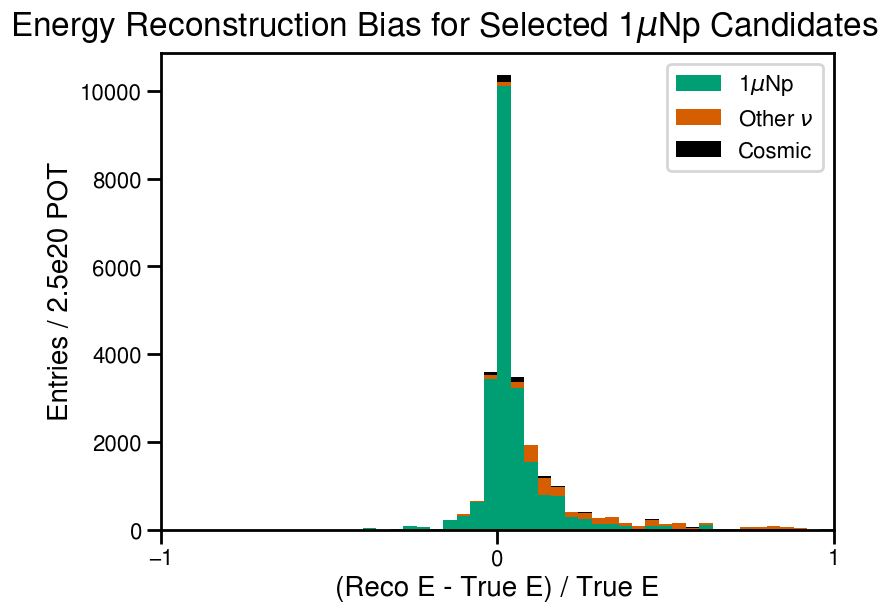
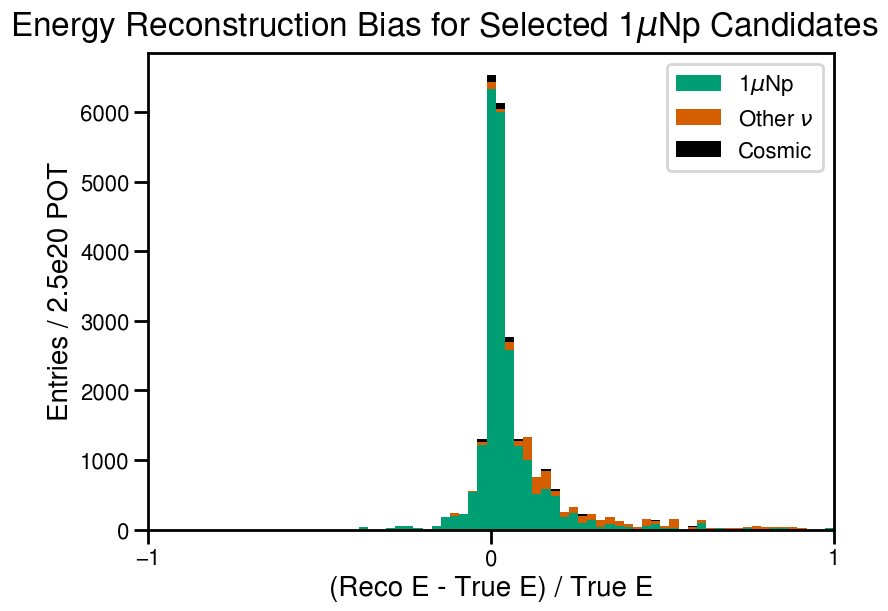
Increased number of bins in bias plots

diff --git a/analysis.C b/analysis.C
@@ -29,12 +29,12 @@ void analysis()
     spectra.add_spectrum1d("sCountPrimaries", Binning::Simple(20, 0, 20), kCountPrimaries);
     spectra.add_spectrum1d("sCountParticlesTruth", Binning::Simple(20, 0, 20), kCountParticlesTruth);
     spectra.add_spectrum1d("sCountPrimariesTruth", Binning::Simple(20, 0, 20), kCountPrimariesTruth);
-    spectra.add_spectrum1d("sEnergy_1mu1p_signal_bias", Binning::Simple(50,-1,1), kEnergy_1mu1p_signal_bias);
-    spectra.add_spectrum1d("sEnergy_1mu1p_othernu_bias", Binning::Simple(50,-1,1), kEnergy_1mu1p_othernu_bias);
-    spectra.add_spectrum1d("sEnergy_1mu1p_cosmic_bias", Binning::Simple(50,-1,1), kEnergy_1mu1p_cosmic_bias);
-    spectra.add_spectrum1d("sEnergy_1muNp_signal_bias", Binning::Simple(50,-1,1), kEnergy_1muNp_signal_bias);
-    spectra.add_spectrum1d("sEnergy_1muNp_othernu_bias", Binning::Simple(50,-1,1), kEnergy_1muNp_othernu_bias);
-    spectra.add_spectrum1d("sEnergy_1muNp_cosmic_bias", Binning::Simple(50,-1,1), kEnergy_1muNp_cosmic_bias);
+    spectra.add_spectrum1d("sEnergy_1mu1p_signal_bias", Binning::Simple(75,-1,1), kEnergy_1mu1p_signal_bias);
+    spectra.add_spectrum1d("sEnergy_1mu1p_othernu_bias", Binning::Simple(75,-1,1), kEnergy_1mu1p_othernu_bias);
+    spectra.add_spectrum1d("sEnergy_1mu1p_cosmic_bias", Binning::Simple(75,-1,1), kEnergy_1mu1p_cosmic_bias);
+    spectra.add_spectrum1d("sEnergy_1muNp_signal_bias", Binning::Simple(75,-1,1), kEnergy_1muNp_signal_bias);
+    spectra.add_spectrum1d("sEnergy_1muNp_othernu_bias", Binning::Simple(75,-1,1), kEnergy_1muNp_othernu_bias);
+    spectra.add_spectrum1d("sEnergy_1muNp_cosmic_bias", Binning::Simple(75,-1,1), kEnergy_1muNp_cosmic_bias);
 
     /**
      * Spectra (2D) for counting selection statistics by interaction categorization (efficiency).
